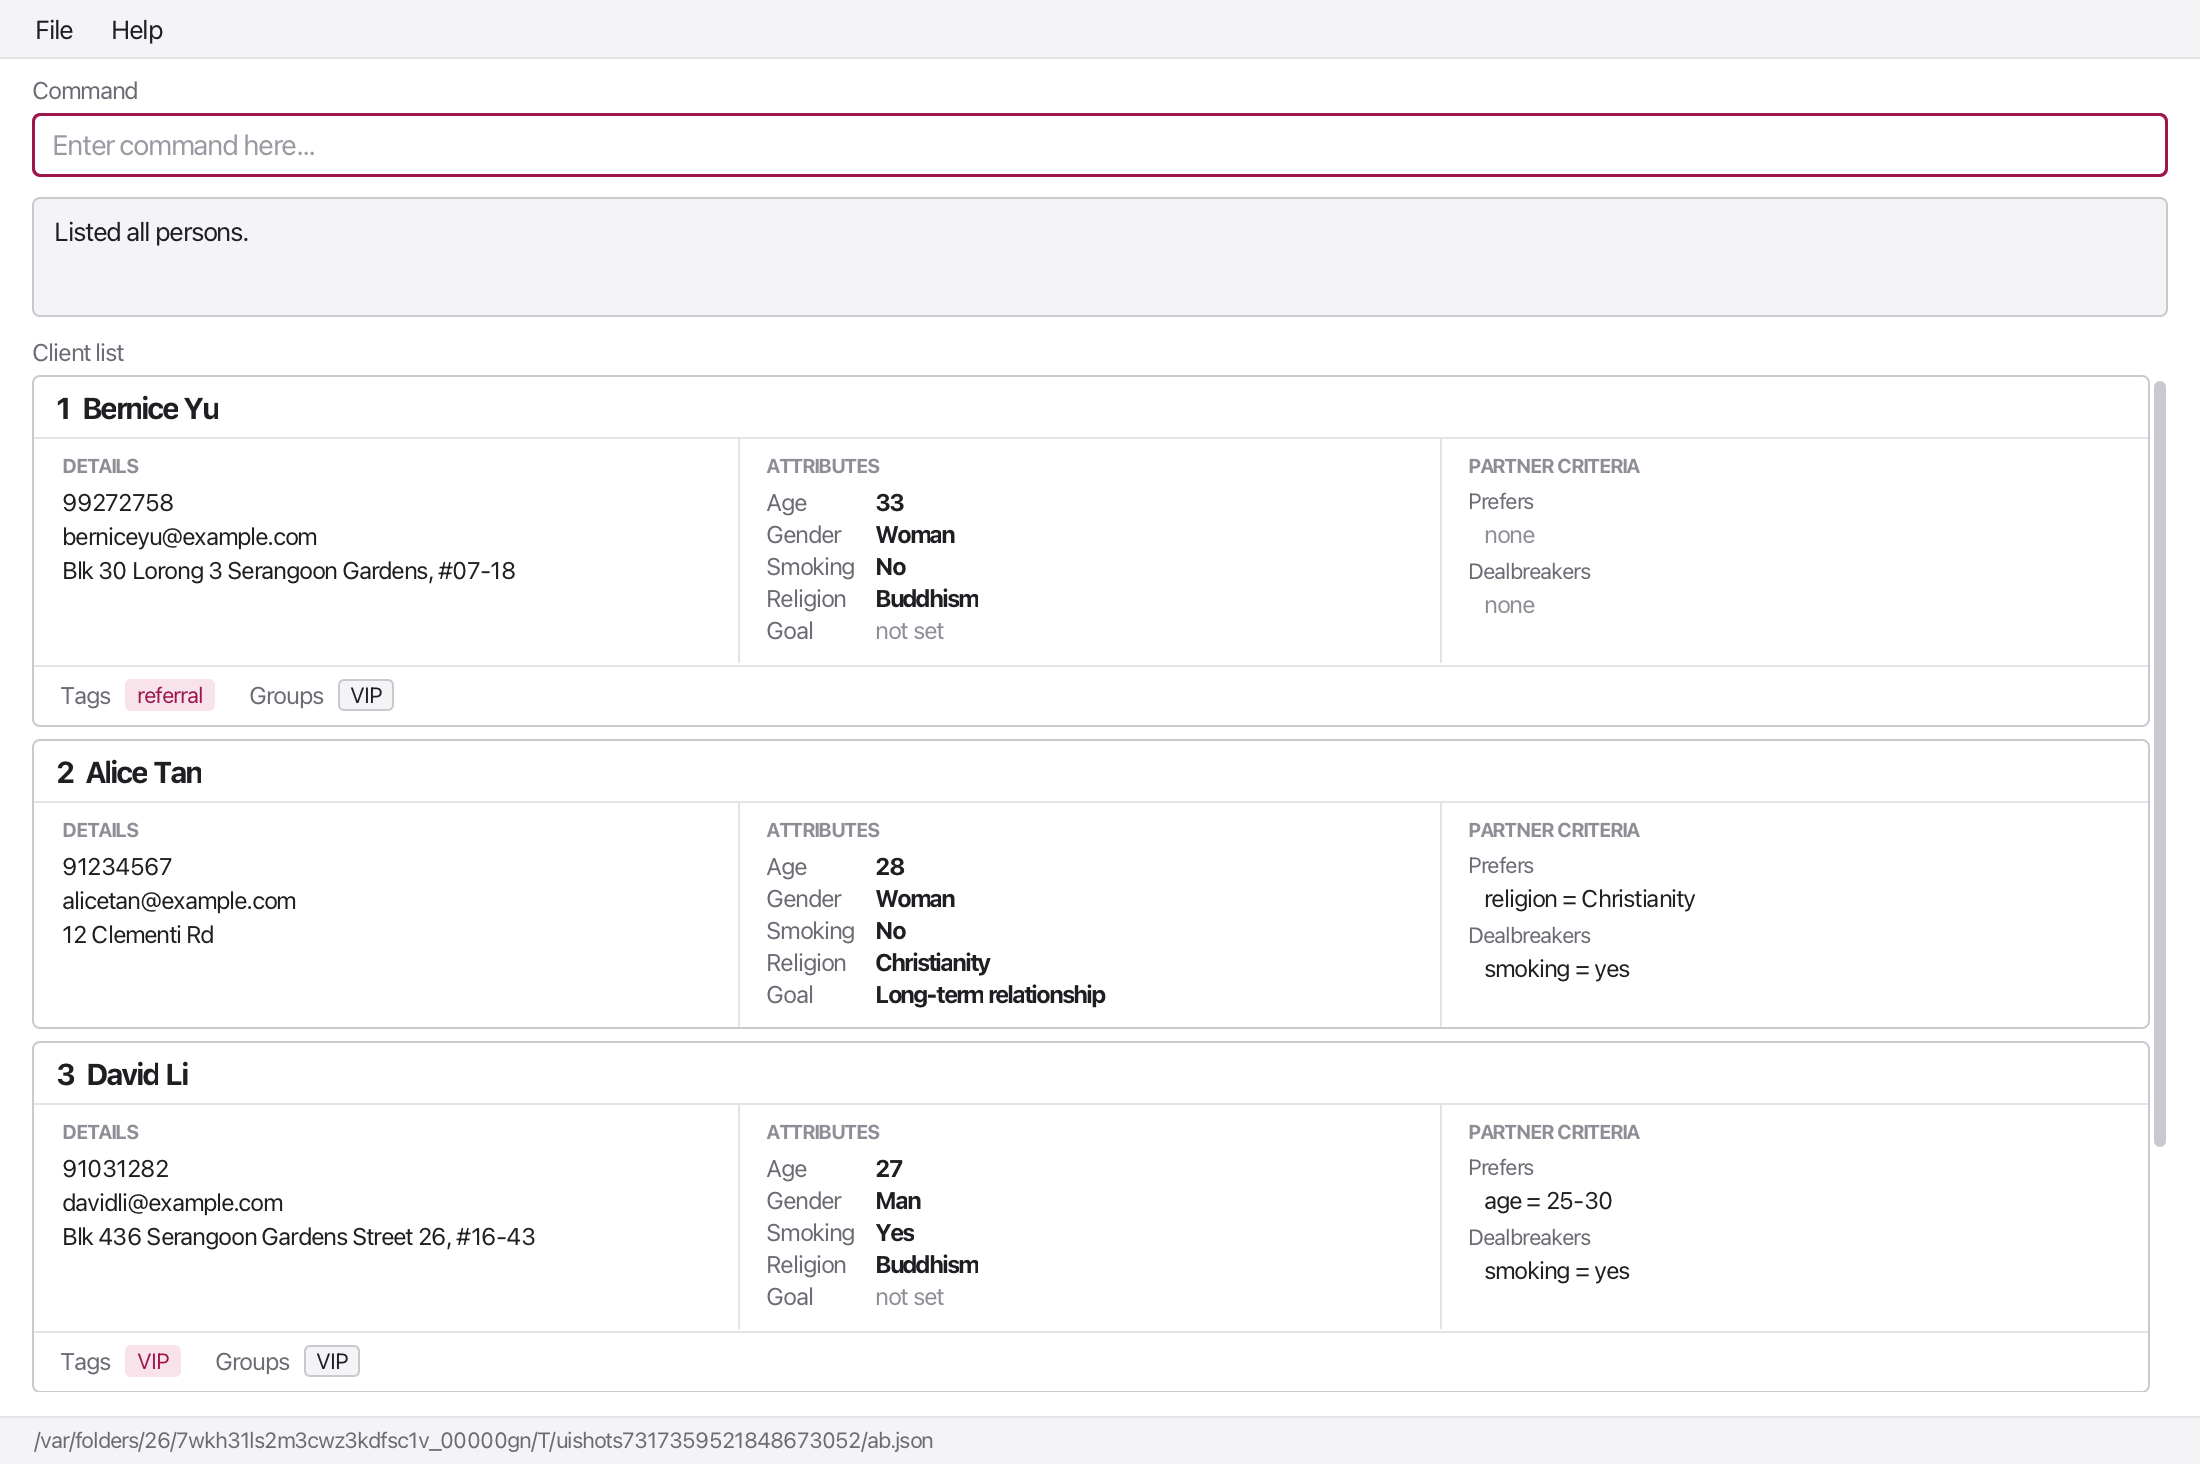
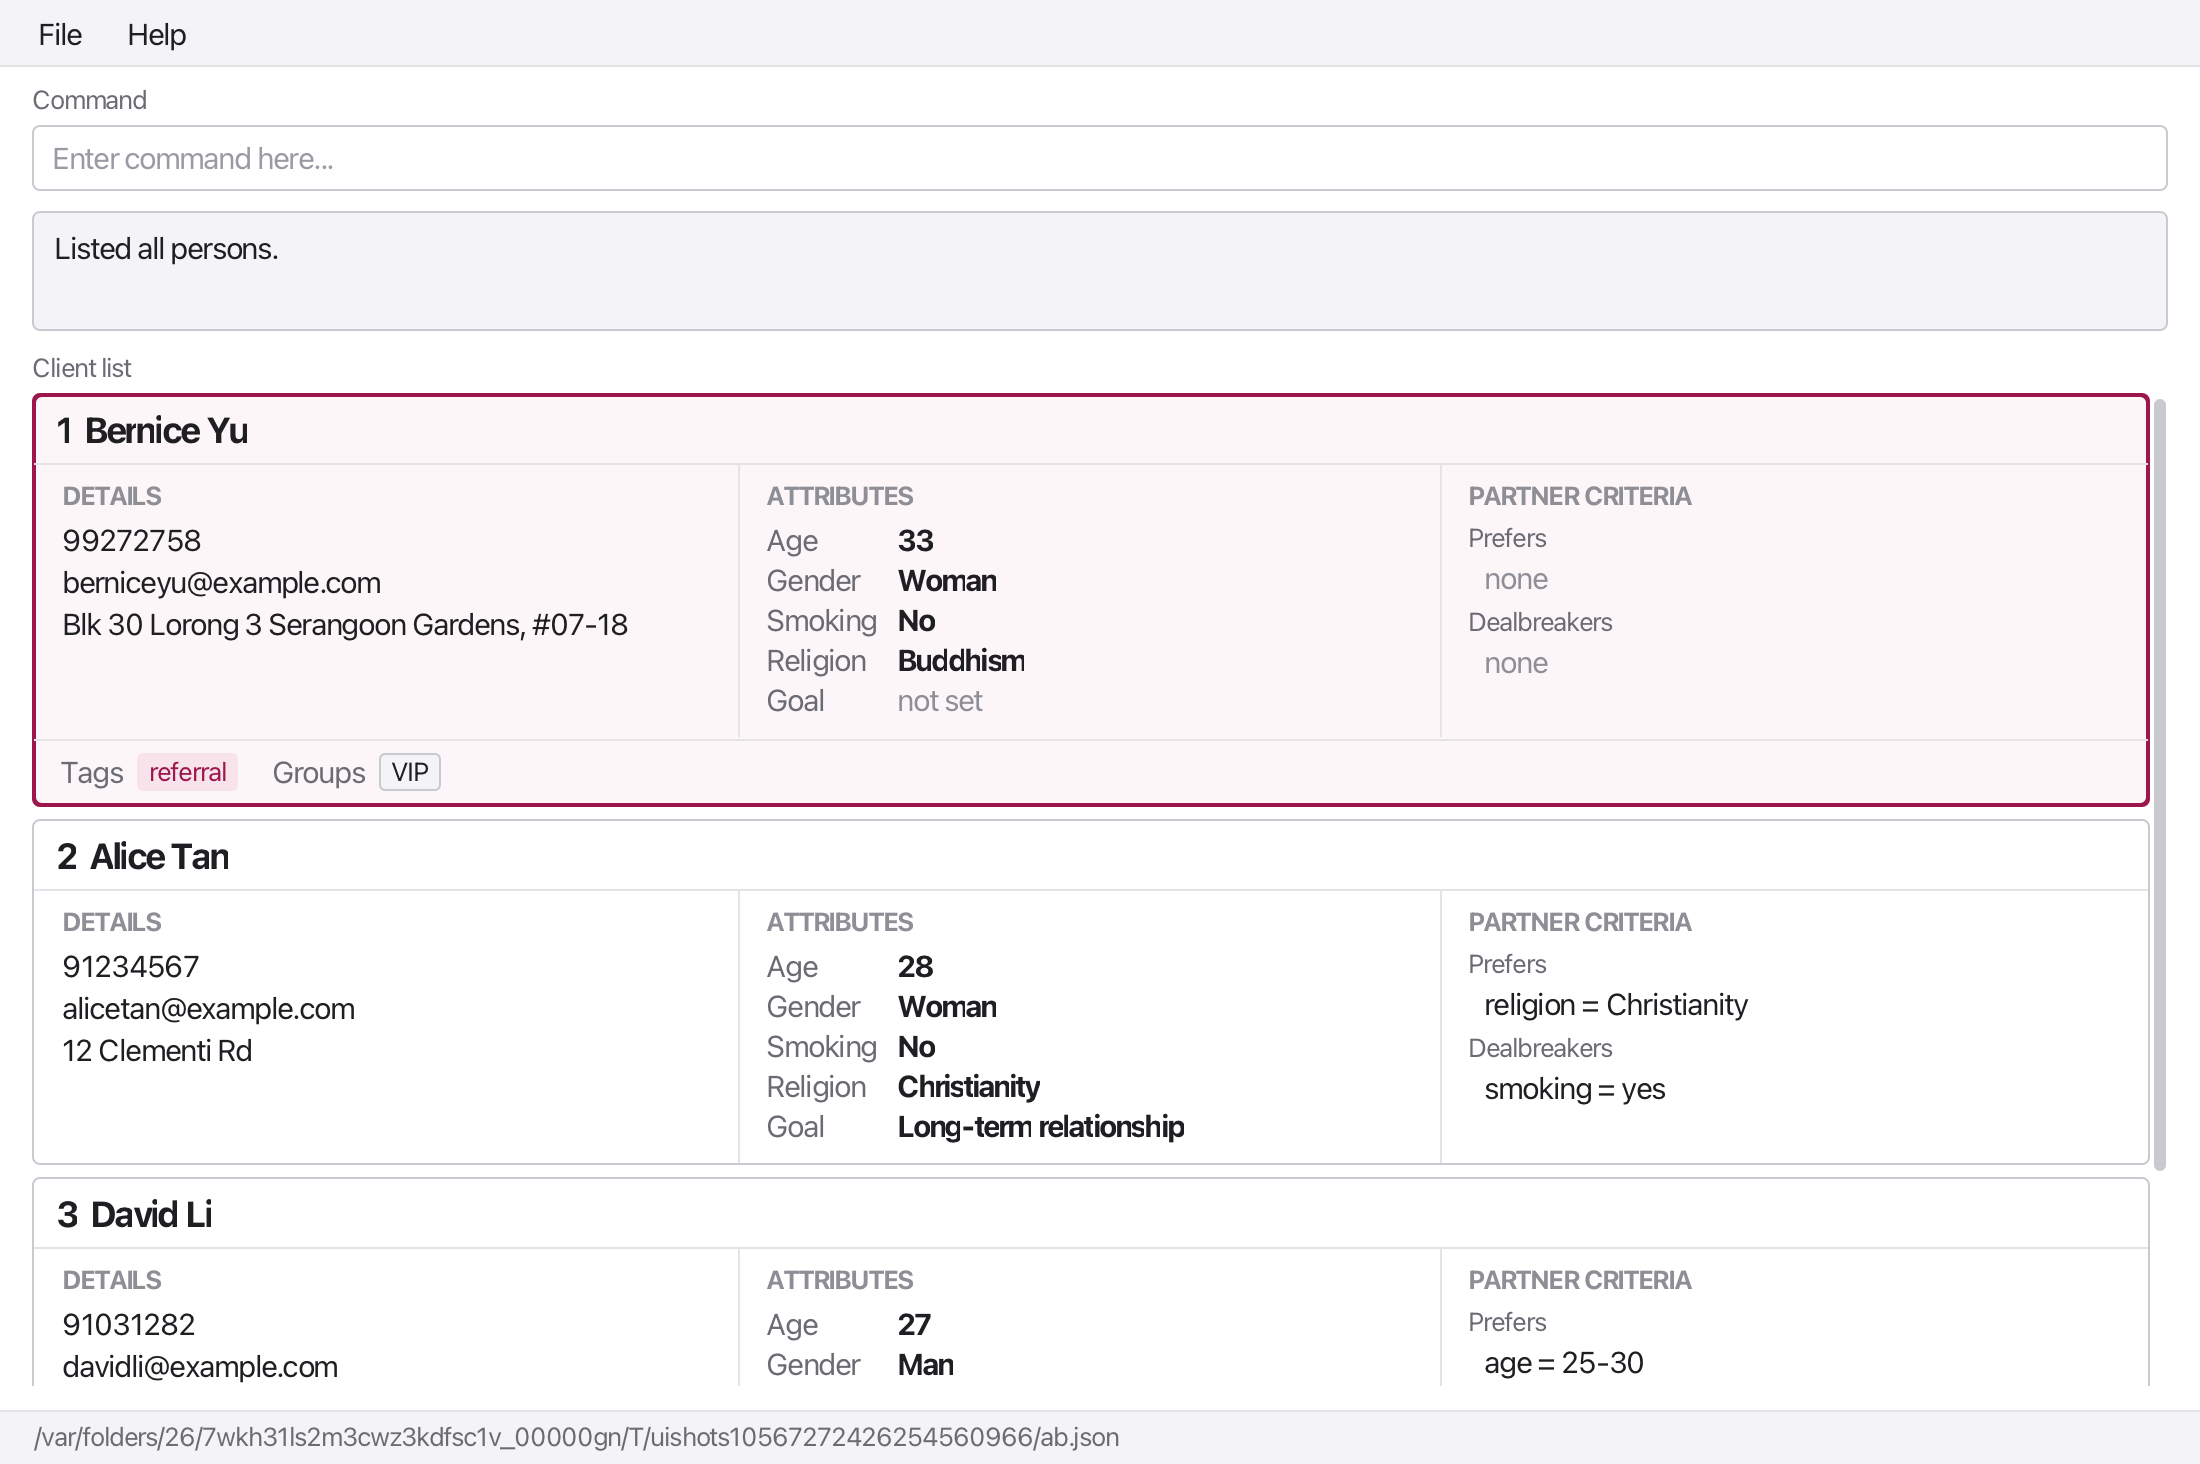
Use system font at three sizes for readability
Text was small and used up to eight font sizes, from 10px to 17px.
Captions were hard to read, especially at 100% scaling, and the mix of
sizes made the hierarchy noisy.

Use the platform's standard UI font ("System") and limit text to three
sizes: 13px for captions, chips and table headers, 15px for body text,
and 18px for client names, the match outcome and dialog headings. Set
the body size once on the root so the other rules inherit it. Update
Ui.png to show the new type.

diff --git a/src/main/resources/view/LightTheme.css b/src/main/resources/view/LightTheme.css
@@ -1,11 +1,12 @@
 /*
  * CupidMaxxing light theme.
+ * Font: the platform's system font at three sizes: 13px (captions), 15px (body), 18px (titles).
  * Text: #1f1f23 (primary), #6b6b74 (muted). Borders: #c9c9d0. Panels: #f4f4f6. Accent: #9d174d.
  */
 
 .root {
-    -fx-font-family: "Segoe UI", "Helvetica Neue", Arial, sans-serif;
-    -fx-font-size: 13px;
+    -fx-font-family: "System";
+    -fx-font-size: 15px;
     -fx-focus-color: #9d174d;
     -fx-faint-focus-color: transparent;
     -fx-accent: #f3d4df;
@@ -21,7 +22,7 @@
 }
 
 .section-caption {
-    -fx-font-size: 12px;
+    -fx-font-size: 13px;
     -fx-text-fill: #6b6b74;
 }
 
@@ -32,7 +33,6 @@
     -fx-background-insets: 0, 1;
     -fx-background-radius: 4, 3;
     -fx-padding: 7 10 7 10;
-    -fx-font-size: 14px;
     -fx-text-fill: #1f1f23;
     -fx-prompt-text-fill: #9a9aa3;
     -fx-highlight-fill: #f3d4df;
@@ -51,7 +51,6 @@
     -fx-background-insets: 0, 1;
     -fx-background-radius: 4, 3;
     -fx-padding: 2;
-    -fx-font-size: 13px;
     -fx-text-fill: #1f1f23;
     -fx-highlight-fill: #f3d4df;
     -fx-highlight-text-fill: #1f1f23;
@@ -118,14 +117,14 @@
 }
 
 .card-section-caption {
-    -fx-font-size: 10px;
+    -fx-font-size: 13px;
     -fx-font-weight: bold;
     -fx-text-fill: #8e8e96;
     -fx-padding: 0 0 2 0;
 }
 
 .card-subcaption {
-    -fx-font-size: 11px;
+    -fx-font-size: 13px;
     -fx-text-fill: #6b6b74;
 }
 
@@ -134,29 +133,25 @@
 }
 
 .cell_big_label {
-    -fx-font-size: 15px;
+    -fx-font-size: 18px;
     -fx-font-weight: bold;
     -fx-text-fill: #1f1f23;
 }
 
 .cell_small_label, .card-criterion {
-    -fx-font-size: 12px;
     -fx-text-fill: #1f1f23;
 }
 
 .card-field-label {
-    -fx-font-size: 12px;
     -fx-text-fill: #6b6b74;
 }
 
 .card-field-value {
-    -fx-font-size: 12px;
     -fx-font-weight: bold;
     -fx-text-fill: #1f1f23;
 }
 
 .card-field-unset {
-    -fx-font-size: 12px;
     -fx-font-style: italic;
     -fx-text-fill: #8e8e96;
 }
@@ -176,7 +171,7 @@
 }
 
 .tag-badge {
-    -fx-font-size: 11px;
+    -fx-font-size: 13px;
     -fx-text-fill: #9d174d;
     -fx-background-color: #f8e3ea;
     -fx-background-radius: 3;
@@ -185,7 +180,7 @@
 
 /* Group memberships are visually distinct from ordinary tags. */
 .group-badge {
-    -fx-font-size: 11px;
+    -fx-font-size: 13px;
     -fx-text-fill: #1f1f23;
     -fx-background-color: #c9c9d0, #f4f4f6;
     -fx-background-insets: 0, 1;
@@ -212,12 +207,12 @@
 }
 
 .match-caption {
-    -fx-font-size: 11px;
+    -fx-font-size: 13px;
     -fx-text-fill: #6b6b74;
 }
 
 .match-outcome {
-    -fx-font-size: 17px;
+    -fx-font-size: 18px;
     -fx-font-weight: bold;
 }
 
@@ -234,12 +229,10 @@
 }
 
 .match-reason, .match-empty {
-    -fx-font-size: 12px;
     -fx-text-fill: #3f3f46;
 }
 
 .match-direction {
-    -fx-font-size: 13px;
     -fx-font-weight: bold;
 }
 
@@ -250,23 +243,19 @@
 }
 
 .match-table-header {
-    -fx-font-size: 11px;
+    -fx-font-size: 13px;
     -fx-font-weight: bold;
     -fx-text-fill: #6b6b74;
     -fx-border-color: transparent transparent #8e8e96 transparent;
 }
 
-.match-table-cell {
-    -fx-font-size: 12px;
-}
-
 .match-requirement-type {
-    -fx-font-size: 12px;
+    -fx-font-size: 15px;
     -fx-fill: #6b6b74;
 }
 
 .match-requirement {
-    -fx-font-size: 12px;
+    -fx-font-size: 15px;
     -fx-fill: #1f1f23;
 }
 
@@ -287,7 +276,7 @@
 }
 
 .status-bar .label {
-    -fx-font-size: 11px;
+    -fx-font-size: 13px;
     -fx-text-fill: #6b6b74;
     -fx-padding: 4 16 4 16;
 }
@@ -301,7 +290,6 @@
 }
 
 .menu-bar .label {
-    -fx-font-size: 13px;
     -fx-text-fill: #1f1f23;
 }
 
@@ -353,7 +341,7 @@
 }
 
 .dialog-pane:header .header-panel .label {
-    -fx-font-size: 15px;
+    -fx-font-size: 18px;
     -fx-font-weight: bold;
     -fx-text-fill: #1f1f23;
 }

diff --git a/src/main/resources/view/HelpWindow.css b/src/main/resources/view/HelpWindow.css
@@ -1,6 +1,6 @@
 #helpMessage {
-    -fx-font-family: "Segoe UI", "Helvetica Neue", Arial, sans-serif;
-    -fx-font-size: 13px;
+    -fx-font-family: "System";
+    -fx-font-size: 15px;
     -fx-text-fill: #1f1f23;
 }
 
